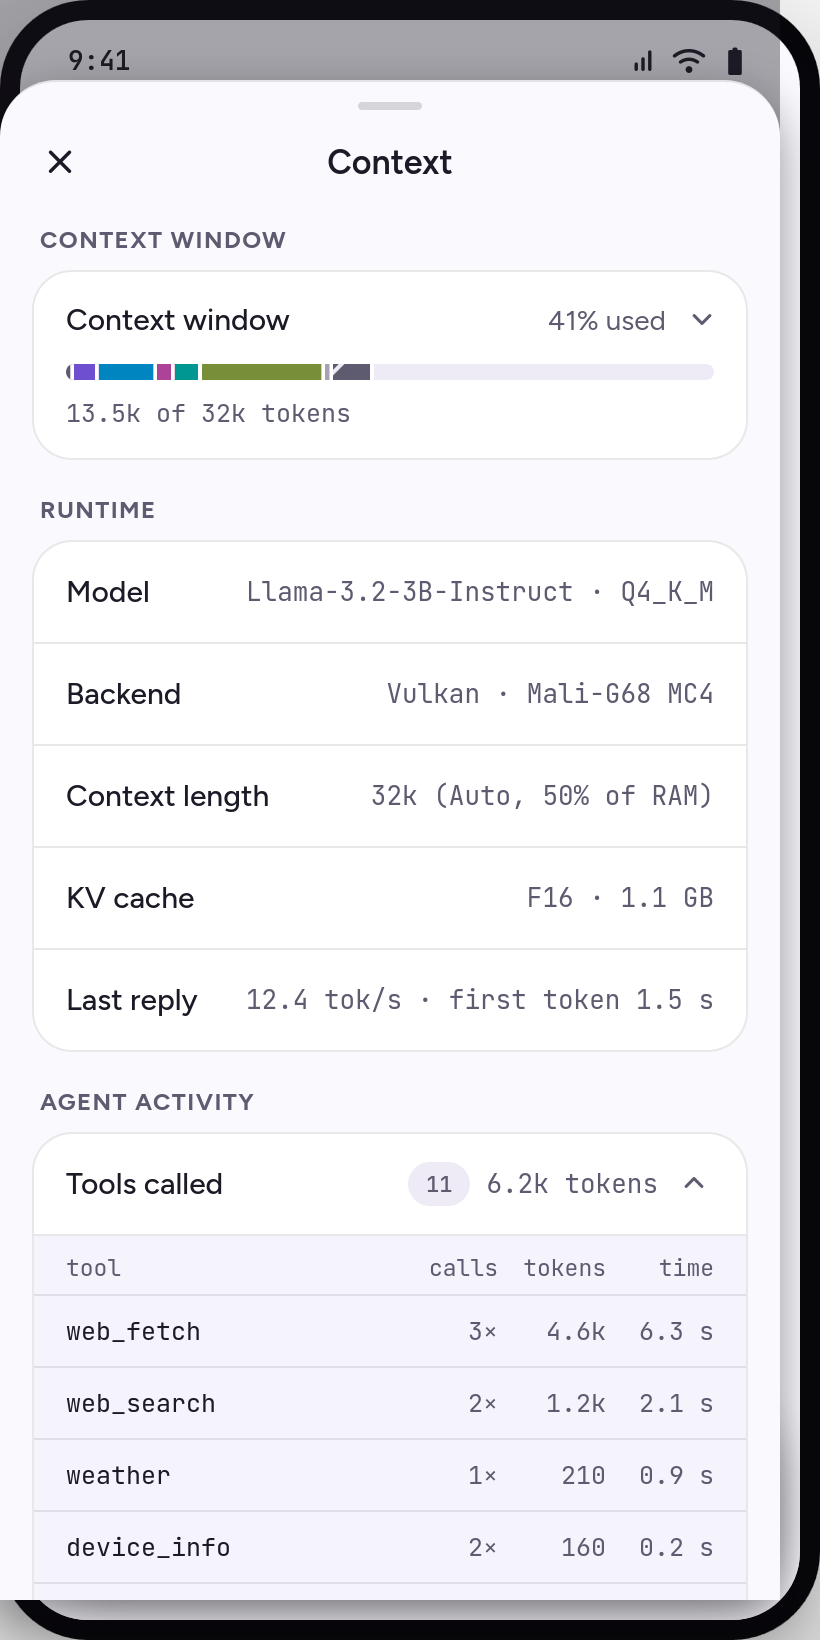
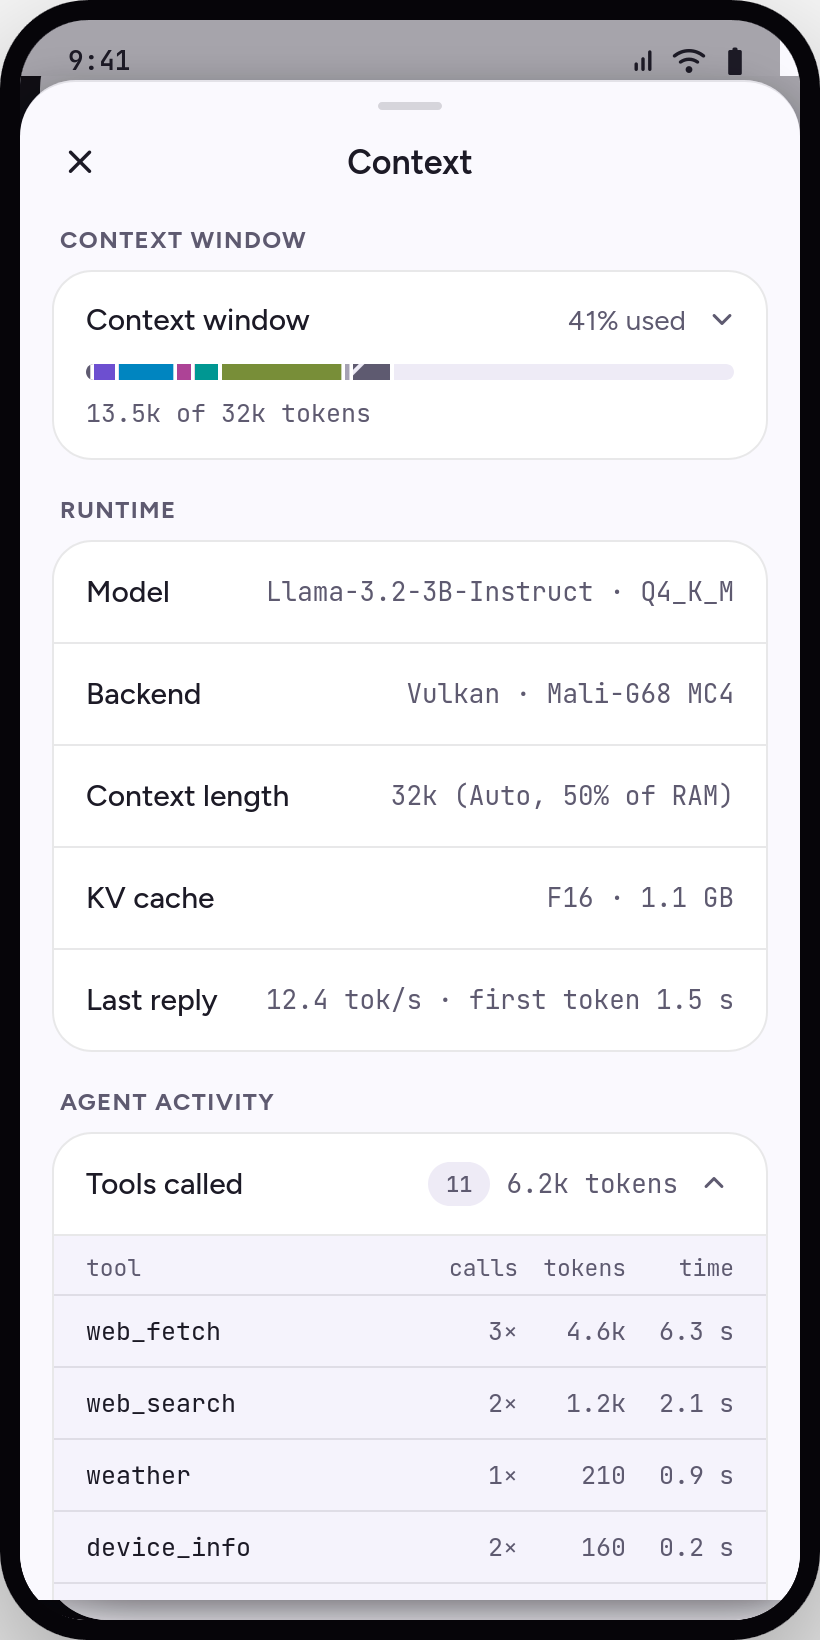
fix(design): aligned nav, active link underline, copy button, framed shots
Nav links share one baseline, so the mono llama.kt entry no longer sits lower
than Download; the active link gets the mockup's 2px primary underline (a side
bar in the mobile menu) with no layout shift. Code blocks on llama.kt get a
copy button from a 425 B external script, hidden without JS, copying the code
without line numbers and announcing the result. The picker and context
screenshots had their sheet drawn over the left bezel, 20px off; they are
re-composited so their bezel matches the other shots.

diff --git a/src/scripts/copy.ts b/src/scripts/copy.ts
@@ -1,0 +1,19 @@
+// Copy button on code blocks. The buttons ship hidden and are revealed here, so there is no dead control without JS.
+const live = document.querySelector<HTMLElement>("[data-copy-live]");
+let timer: number | undefined;
+
+for (const btn of document.querySelectorAll<HTMLButtonElement>("[data-copy]")) {
+  btn.hidden = false;
+  btn.addEventListener("click", async () => {
+    // Line numbers are CSS counters: textContent never sees them.
+    const text = [...(btn.parentElement?.querySelectorAll(".line") ?? [])].map((l) => (l.textContent ?? "").trimEnd()).join("\n");
+    try {
+      await navigator.clipboard.writeText(text);
+    } catch {
+      return;
+    }
+    if (live) live.textContent = btn.dataset["done"] ?? "";
+    clearTimeout(timer);
+    timer = window.setTimeout(() => live && (live.textContent = ""), 2000);
+  });
+}

diff --git a/src/i18n/pages/llamakt.ts b/src/i18n/pages/llamakt.ts
@@ -39,6 +39,8 @@ const en = {
     tabs: ["Submodule", "Gradle", "Kotlin"],
     langs: ["Shell commands", "Gradle, Kotlin DSL", "Kotlin"],
     note: "The AAR is not published yet. The git submodule is the supported path for now. Maven Central may come later.",
+    copy: "Copy code",
+    copied: "Copied",
   },
   measured: {
     heading: "Measured",
@@ -166,6 +168,8 @@ const fr: typeof en = {
     tabs: ["Submodule", "Gradle", "Kotlin"],
     langs: ["Commandes shell", "Gradle, Kotlin DSL", "Kotlin"],
     note: "L'AAR n'est pas encore publié. Le submodule git est la voie supportée pour l'instant. Maven Central pourrait suivre.",
+    copy: "Copier le code",
+    copied: "Copié",
   },
   measured: {
     heading: "Mesures",
